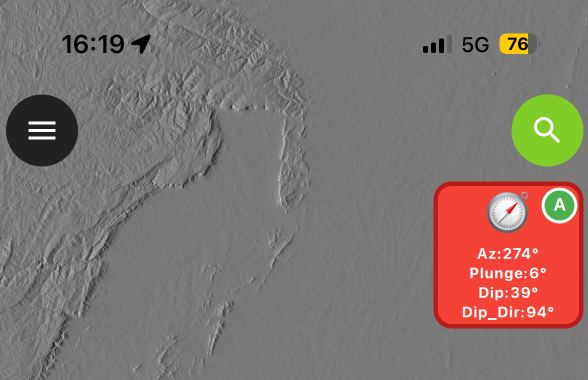
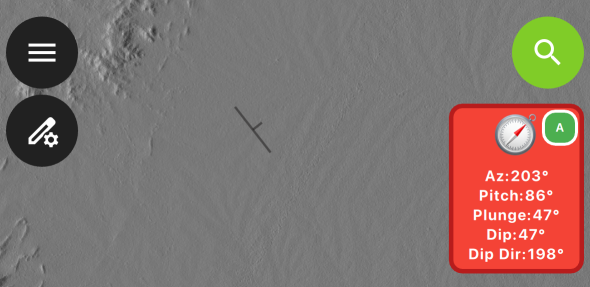
Add geological pitch calc

diff --git a/main.qml b/main.qml
@@ -8,7 +8,7 @@ Item {
     
     // User-configurable settings
     property real magneticDeclination: -1.5  // Your custom value
-    property bool northernHemisphere: false  // Your custom value
+    property bool southernHemisphere: true  // Your custom value
 
     // Do not edit past this line
     property var mainWindow: iface.mainWindow()
@@ -91,6 +91,7 @@ Item {
         var dipDirection = Math.atan2(g_east, g_north) * 180 / Math.PI
 
         dipDirection = dipDirection + magneticDeclination
+        if (southernHemisphere) dipDirection=(dipDirection+180)%360
         if (dipDirection < 0) dipDirection += 360
 
 
@@ -128,8 +129,9 @@ Item {
         var roll = accelerometer.currentRoll
         var plunge = getPlunge()
         var geo = calculateGeologicalDip(azimuth)
-        
-        if (northernHemisphere) azimuth=(azimuth+180)%360
+        var geoPitch = (270+Math.atan2(accelerometer.currentX,accelerometer.currentY)*180/Math.PI)%180
+
+        if (southernHemisphere) azimuth=(azimuth+180)%360
         return {
             azimuth: azimuth,
             pitch: pitch,
@@ -137,7 +139,8 @@ Item {
             plunge: plunge,
             dip: geo.dip,
             dipDirection: geo.dipDirection,
-            strike: geo.strike
+            strike: geo.strike,
+            geoPitch: geoPitch
         }
     }
     
@@ -159,12 +162,12 @@ Item {
                     feature.setAttribute(i, Math.round(orientation.azimuth))
                     populated = true
                 }
-                else if (fieldName === 'pitch' ) {
-                    feature.setAttribute(i, Math.round(orientation.pitch))
-                    populated = true
-                }
                 else if (fieldName === 'roll') {
                     feature.setAttribute(i, Math.round(orientation.roll))
+                    populated = true
+                }                
+                else if (fieldName === 'pitch') {
+                    feature.setAttribute(i, Math.round(orientation.geoPitch))
                     populated = true
                 }
                 else if (fieldName === 'dip' || fieldName === 'dip_angle' || fieldName === 'pendage') {
@@ -182,7 +185,8 @@ Item {
                 else if (fieldName === 'plunge' || fieldName === 'plongement') {
                     feature.setAttribute(i, Math.round(orientation.plunge))
                     populated = true
-                }            }
+                }            
+            }
             
             if (populated) {
                 overlayFeatureFormDrawer.featureModel.feature = feature
@@ -236,7 +240,7 @@ Item {
         id: mainButtonComponent
         Button {
             width: 90
-            height: 110
+            height: 125
             
             background: Rectangle {
                 color: parent.pressed ? "#C62828" : (autoFillEnabled ? "#F44336" : "#9E9E9E")
@@ -283,6 +287,16 @@ Item {
                         color: "white"
                         anchors.horizontalCenter: parent.horizontalCenter
                     }
+                    Text {
+                        text: {
+                            var data = getOrientationData()
+                            return "Pitch:" + Math.round(data.geoPitch) + "°"
+                        }
+                        font.pixelSize: 10
+                        font.bold: true
+                        color: "white"
+                        anchors.horizontalCenter: parent.horizontalCenter
+                    }                     
                     Text {
                         text: {
                             var data = getOrientationData()

diff --git a/README.md b/README.md
@@ -1,6 +1,6 @@
 # QField Geological Compass Plugin
 
-A QField plugin for capturing geological orientations (azimuth, plunge, dip, dip direction, strike) using your device's sensors during fieldwork.
+A QField plugin for capturing geological orientations (azimuth, plunge, pitch, dip, dip direction, strike) using your device's sensors during fieldwork.
 
 ![Version](https://img.shields.io/badge/version-1.0-blue)
 ![QField](https://img.shields.io/badge/QField-3.x-green)
@@ -19,18 +19,13 @@ A QField plugin for capturing geological orientations (azimuth, plunge, dip, dip
 
 ## What It Captures
 
-### Phone Orientation (Raw Sensors)
-- **Azimuth** (0-360°) - Compass heading from true north (if declination set correctly)
-- **Yaw** (-90° to +90°) - Rotation axis normal to screen 
-- **Pitch** (-90° to +90°) - Rotation axis up/down facing screen
-- **Roll** (-90° to +90°) - Rotation axis left/right facing screen
-
 ### Geological Measurements (Calculated)
 - **Dip** (0-90°) - Angle of plane from horizontal
 - **Dip Direction** (0-360°) - Azimuth of steepest descent from true north (if declination set correctly)
 - **Strike** (0-360°) - Direction perpendicular to dip from true north (if declination set correctly)
 - **Azimuth** (0-360°) - Compass heading from true north (if declination set correctly)
 - **Plunge** (0-90°) - Plunge of linear feature
+- **Pitch** (0-180°) - Pitch of linear feature (clockwise from right)
 
 All values are saved as **integers** (whole numbers).
 
@@ -53,7 +48,7 @@ Open `mail.qml` in a text editor and edit declination value on line 10 so it has
 Open `mail.qml` in a text editor and change line 11 so it looks like this:   
 
 
-      property bool northernHemisphere: true  // Your custom value
+      property bool southernHemisphere: false  // Your custom value
    
 
 
@@ -88,11 +83,11 @@ Add desired fields to your point layer in QGIS:
 | Field Name | Type | Description |
 |------------|------|-------------|
 | `azimuth` | Integer | Compass heading (0-360°) |
-| `pitch` or `plunge` | Integer | Forward/backward tilt (-90 to +90°) |
 | `dip` | Integer | Dip angle (0-90°) |
 | `dip_direction` or `dip_dir` | Integer | Dip direction (0-360°) |
 | `strike` | Integer | Strike direction (0-360°) |
 | `plunge` | Integer | Lineation plunge (0-90°) |
+| `pitch` | Integer | Lineation pitch (0-180°) clockwise from right |
 
 **Optional fields:**
 - `roll` - Side tilt angle
@@ -119,7 +114,7 @@ CREATE TABLE orientations (
 
 In QGIS: Layer → New Shapefile Layer
 - Geometry: Point
-- Add Integer fields: azimuth, plunge, dip, dip_dir, strike, plunge
+- Add Integer fields: azimuth, plunge, dip, dip_dir, strike, plunge, pitch
 
 ### Field Configuration in QGIS
 
@@ -150,6 +145,7 @@ The plugin adds **one red square button** to QField's toolbar:
 │              │
 │ Az: 45°      │  ← Live azimuth value
 │ Plunge:15°   │  ← Live plunge value
+│ Pitch:25°    │  ← Live pitch value
 │ Dip:35°      │  ← Live dip angle
 │ Dip Dir:135° │  ← Live dip direction
 └──────────────┘
@@ -204,11 +200,11 @@ The plugin recognizes these layer field names (case-insensitive):
 - `plunge`
 - `plongement`
 
-### Pitch (warning this is the pitch of the device, not of a lineation)
-- `pitch`
-
 ### Roll (of device)
 - `roll`
+
+### Pitch
+- `pitch`
 
 ### Dip
 - `dip`
@@ -238,10 +234,6 @@ The plugin uses your device's built-in sensors:
 1. **Compass** - Provides magnetic azimuth (0-360°)
 2. **Accelerometer** - Provides device tilt (X, Y, Z acceleration)   
    
-This is provided to the software as:   
-- **Roll:** The angle of rotation around the axis that runs through the top and bottom of the phone. For example, tilting the phone to its side.
-- **Pitch:** The angle of rotation around the axis that runs through the sides of the phone (where the volume buttons are). For example, tilting the phone forward or backward.
-- **Yaw:** The angle of rotation around the axis that runs perpendicular to the iphone screen. For example, twisting the phone horizontally. 
    
 ## Troubleshooting
 
@@ -300,7 +292,7 @@ Long-press the button to toggle auto-fill ON.
 
 - **Azimuth Reference:** True North if correct declination defined
 - **Angle Convention:** Right-hand rule for strike
-- **Range:** 0-360° (azimuth, dip_dir, strike), 0-90° (dip), -90 to +90° (pitch/plunge, roll)
+- **Range:** 0-360° (azimuth, dip_dir, strike), 0-90° (dip), -90 to +90° (plunge, roll)
 
 ### Sensor Update Rate
 
@@ -312,9 +304,11 @@ Long-press the button to toggle auto-fill ON.
 
 **Expected accuracy (calibrated device):**
 - Azimuth: ±5°
-- Pitch/Roll: ±2°
+- Roll: ±2°
 - Dip: ±5°
 - Dip Direction: ±5°
+- Pitch: ±5°
+- Plunge: ±5°
 
 **Factors affecting accuracy:**
 - Magnetic interference
@@ -394,6 +388,9 @@ A: Yes, standard QGIS export (CSV, Excel, Shapefile, etc.)
 
 **Q: Does it save photos?**
 A: No, but you can add a photo field to your layer separately.
+
+**Q: What is hte pitch convention?**
+A: Facing the surface to be measured, pitch is increasing clockwise from zero.
 
 **Q: What if my device doesn't have a compass?**
 A: Plugin won't work - compass is required for azimuth.
